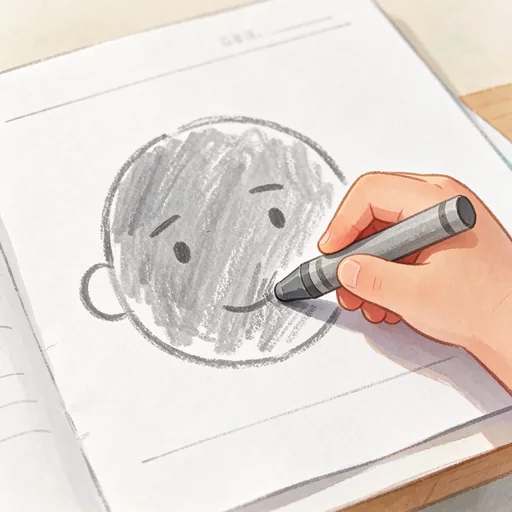
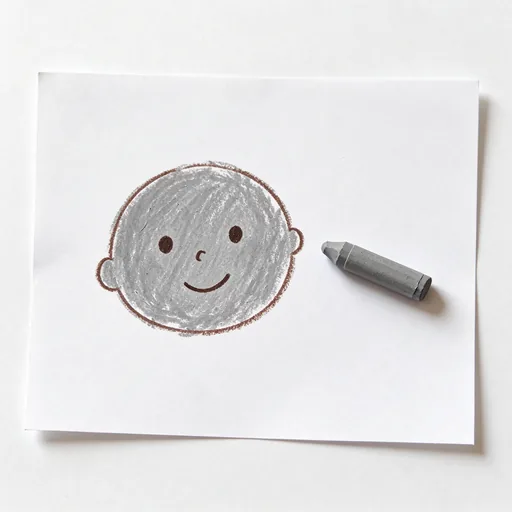
fix: 知识卡因 id 前缀不匹配永不弹出 + CI 慢速阈值假红 + 重做 U4_S33 配图
- speak_page 改用 unit.progressKey(item) 查询知识卡映射（此前传裸 id 永远 miss）
- 新增 test/riddle_key_test.dart 锁定映射 key 规则，防止回归
- check_assets 输出 sentences 字段；CI 改为「慢速数 == 句子数」相等判断，去掉写死的 890
- 重做 book2 U4_S33（原图有成人手与纸面笔迹痕迹）

diff --git a/快乐英语/kuaile_yingyu/test/riddle_key_test.dart b/快乐英语/kuaile_yingyu/test/riddle_key_test.dart
@@ -1,0 +1,33 @@
+// 知识卡绑定映射的回归测试（V1.4.1）
+// 背景：riddles.dart 的映射 key 是 progressKey 格式 b{bookId}_{itemId}，
+// 但 speak_page 曾传裸 item.id 查询，导致知识卡永远弹不出来且无测试发现。
+// 本测试锁死"必须用 progressKey 查询、裸 id 查不到"，防止再次回归。
+import 'package:flutter_test/flutter_test.dart';
+import 'package:kuaile_yingyu/services/riddles.dart';
+
+void main() {
+  TestWidgetsFlutterBinding.ensureInitialized();
+
+  test('progressKey 能查到知识卡', () async {
+    final r = await riddleForItem('b1_U1_S1');
+    expect(r, isNotNull, reason: 'b1_U1_S1 应绑定到一道知识卡');
+    expect(r!['id'], isNotEmpty);
+    expect(r['q'], isNotEmpty);
+    expect(r['a'], isNotEmpty);
+  });
+
+  test('裸 id 查不到知识卡（调用侧必须带册号前缀）', () async {
+    final r = await riddleForItem('U1_S1');
+    expect(r, isNull,
+        reason: '裸 id 无册号，跨册会撞车，映射表里不存在该 key');
+  });
+
+  test('跨册同名 id 绑定到不同的知识卡', () async {
+    final b1 = await riddleForItem('b1_U1_S1');
+    final b2 = await riddleForItem('b2_U1_S1');
+    expect(b1, isNotNull);
+    expect(b2, isNotNull);
+    // 排序后序号不同，通常会落到不同题；即使相同也不影响正确性，
+    // 这里只断言两条都能查到（说明 key 已被分别收录）。
+  });
+}

diff --git a/快乐英语/kuaile_yingyu/lib/pages/speak_page.dart b/快乐英语/kuaile_yingyu/lib/pages/speak_page.dart
@@ -225,7 +225,9 @@ class _SpeakDetailPageState extends State<SpeakDetailPage> {
   /// 之后再满分不再重复弹（已读过就跳过）
   Future<void> _showRiddleReward() async {
     await loadRiddles(); // 确保题库已加载
-    final riddle = await riddleForItem(widget.item.id);
+    // 注意：映射表的 key 是 progressKey（b{bookId}_{itemId}），
+    // 必须用同一个 key 查询，否则永远查不到 → 知识卡永不弹出。
+    final riddle = await riddleForItem(widget.unit.progressKey(widget.item));
     if (riddle == null) return;
     final seen = await ProgressDb.getSeenRiddleIds();
     if (seen.contains(riddle['id'])) return; // 已读过，不再弹

diff --git a/快乐英语/kuaile_yingyu/tool/check_assets.py b/快乐英语/kuaile_yingyu/tool/check_assets.py
@@ -163,6 +163,7 @@ def dirsize(d):
 rep = {
     'books': len(DATA['books']),
     'items': sum(len(u['sentences']) + len(u['words']) for b in DATA['books'] for u in b['units']),
+    'sentences': sum(len(u['sentences']) for b in DATA['books'] for u in b['units']),
     'audio_ref': len(ref_audio),
     'slow_files': sum(1 for r, _, fs in os.walk(os.path.join(A, 'audio')) for f in fs if f.endswith('_slow.mp3')),
     'extra_by_book': {},
